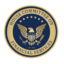
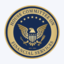
Fix the seals that were blank, blurry or squeezed into a corner
The Judiciary chip read as a white square. Its art is a WHITE Capitol dome and
white scales with a gold laurel, drawn for a dark header, so the light plate I
had put behind every logo erased everything except the laurel. The plate was a
single CSS rule and the logos do not agree about which way round they are: most
are dark line art that needs a light ground, and four are light art that needs a
dark one. So the ground is baked into each file now, chosen when it is built by
measuring what fraction of the art is near-white. Judiciary, Intelligence,
Education and Workforce and Small Business get the dark one.

Appropriations was blurry because I took the favicon, which is a 48-pixel ICO.
The committee publishes its actual seal at 1113px — "EST 1865, ARTICLE I,
SECTION 9, CLAUSE 7" — two links further into the same page. Agriculture was a
32-pixel favicon; its logo is a vector, and the tractor-tree-apple-cow cluster
crops cleanly away from the wordmark next to it, which reads "CHAIRMAN GT
THOMPSON" and could not have been used whole.

Everything is also trimmed now. Several were pasted into a 64px box at their
original proportions, so the Judiciary's wide lockup became a small smear in the
middle of a lot of nothing: 14% of that tile had any pixels in it at all.

On vector: it is used where it exists — the Ways and Means seal from Commons,
Agriculture's own logo-2023.svg — but rendered at build time rather than served
[…]

Changed region(s): [[0.0625, 0.0938, 0.9375, 0.9375], [0.5625, 0.0625, 0.5938, 0.0938]]

diff --git a/app.js b/app.js
@@ -2534,6 +2534,12 @@ const COMMITTEE_MARKS = {
 // content systems, paths encoding upload dates like /2024/05/, and a page that
 // breaks on somebody else's redesign. 152K for the set.
 //
+// Rendered from vector where a vector exists — Ways and Means' Commons SVG,
+// Agriculture's own logo-2023.svg — at build time rather than shipped as SVG:
+// the Ways and Means file alone is 181K against 6K for the raster, and at the
+// 22px these display at, nothing on screen can tell the difference. The whole
+// set is 112K.
+//
 // Sixteen come from the committee's own site. Three come from Wikimedia instead,
 // because what their own site serves is not a committee mark and Wikimedia holds
 // the institutional seal:
@@ -2551,6 +2557,12 @@ const COMMITTEE_MARKS = {
 // that one keeps the seal off its own site. Resolving these at runtime would
 // therefore not make them self-maintaining, it would just move the wrong picture
 // to wherever an editor put it.
+//
+// Two of the site-sourced ones needed digging past the favicon, which is where
+// this started and is only ever 32 or 48 pixels: Appropriations publishes its
+// seal at 1113px as logosealpng_0.png, and Agriculture's icon cluster comes out
+// of the vector lockup — cropped away from the wordmark beside it, which reads
+// "CHAIRMAN GT THOMPSON".
 //
 // Two still have no usable mark and keep the monogram, which belongs to nobody:
 //   foreign affairs — the shared CMS default again

diff --git a/index.html b/index.html
@@ -28,7 +28,7 @@
           href="https://cdn.evanhollander.org/fonts/EMHMono.woff2">
     <link rel="preload" as="font" type="font/woff2" crossorigin
           href="https://cdn.evanhollander.org/fonts/EMHGrotesk.woff2">
-    <link rel="stylesheet" href="styles.css?v=20260916t">
+    <link rel="stylesheet" href="styles.css?v=20260916u">
     <link rel="manifest" href="site.webmanifest">
     <link rel="icon" type="image/svg+xml" href="favicon.svg">
     <link rel="icon" type="image/png" sizes="64x64" href="favicon.png">
@@ -1591,8 +1591,8 @@
     <!-- Shared bill-id rules, used by app.js and worker.js alike. Plain script,
          loaded before app.js so it is a simple synchronous global. -->
     <script defer src="lib/bill-id.js?v=20260905a"></script>
-    <script defer src="lib/floor-speaker.js?v=20260916t"></script>
-    <script defer src="app.js?v=20260916t"></script>
+    <script defer src="lib/floor-speaker.js?v=20260916u"></script>
+    <script defer src="app.js?v=20260916u"></script>
     <script defer src='https://static.cloudflareinsights.com/beacon.min.js' data-cf-beacon='{"token": "d4681f2dc9f7443eaa9eecbab8360f7a"}'></script>
 </body>
 </html>

diff --git a/styles.css b/styles.css
@@ -6059,14 +6059,13 @@ font-family: var(--font-mono);
     height: 22px;
     object-fit: contain;
     border-radius: var(--radius-4);
-    /* These are drawn for white pages. Half of them are dark navy or black line
-       art on a transparent ground, which on this card is a dark smudge — the
-       Judiciary dome and the Intelligence seal both vanished. A light plate is
-       what a favicon gets everywhere else on a dark interface, and it costs the
-       ones that carry their own background nothing but a thin edge. */
-    background: #f4f6fb;
-    padding: 1px;
-    box-sizing: border-box;
+    /* No plate here. These are drawn for their own sites, and they do not agree
+       about which way round: most are dark line art that needs a light ground,
+       but the Judiciary's dome and scales are WHITE with a gold laurel, so a
+       light plate erased everything but the laurel and the chip read as blank.
+       Each file carries the ground it needs, chosen when it was built by
+       measuring how much of its art is near-white. One rule in CSS could not
+       have been right for both. */
 }
 
 .committee-chip-name { min-width: 0; }
